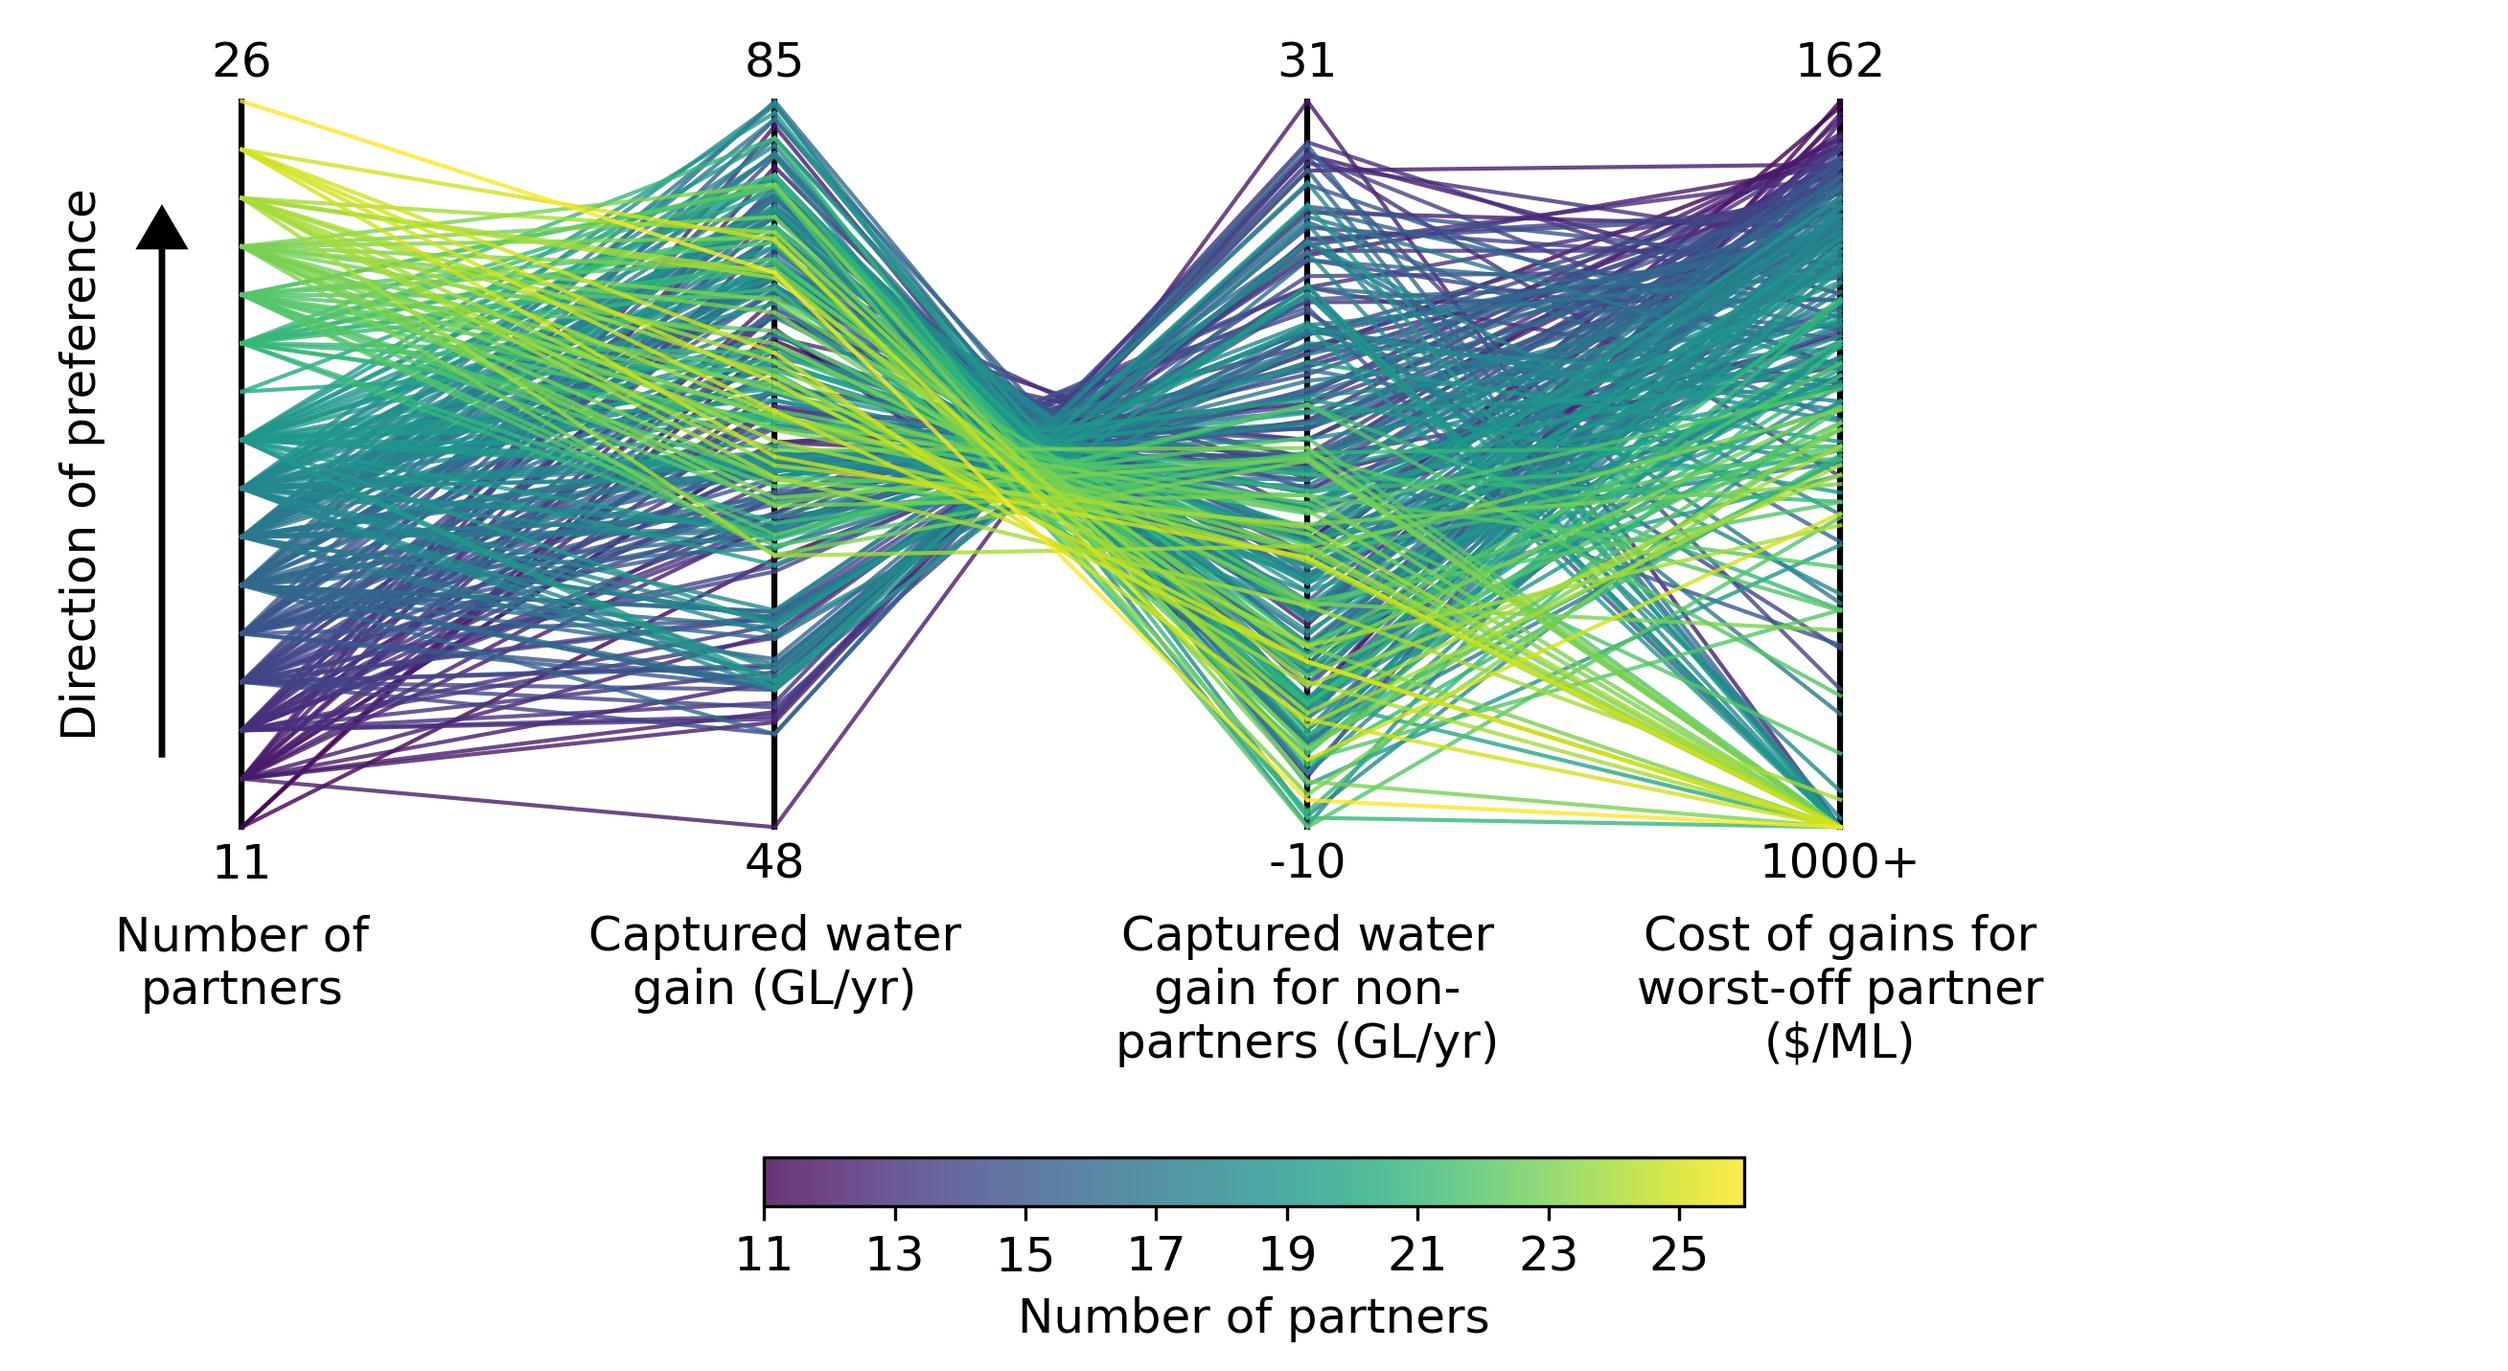
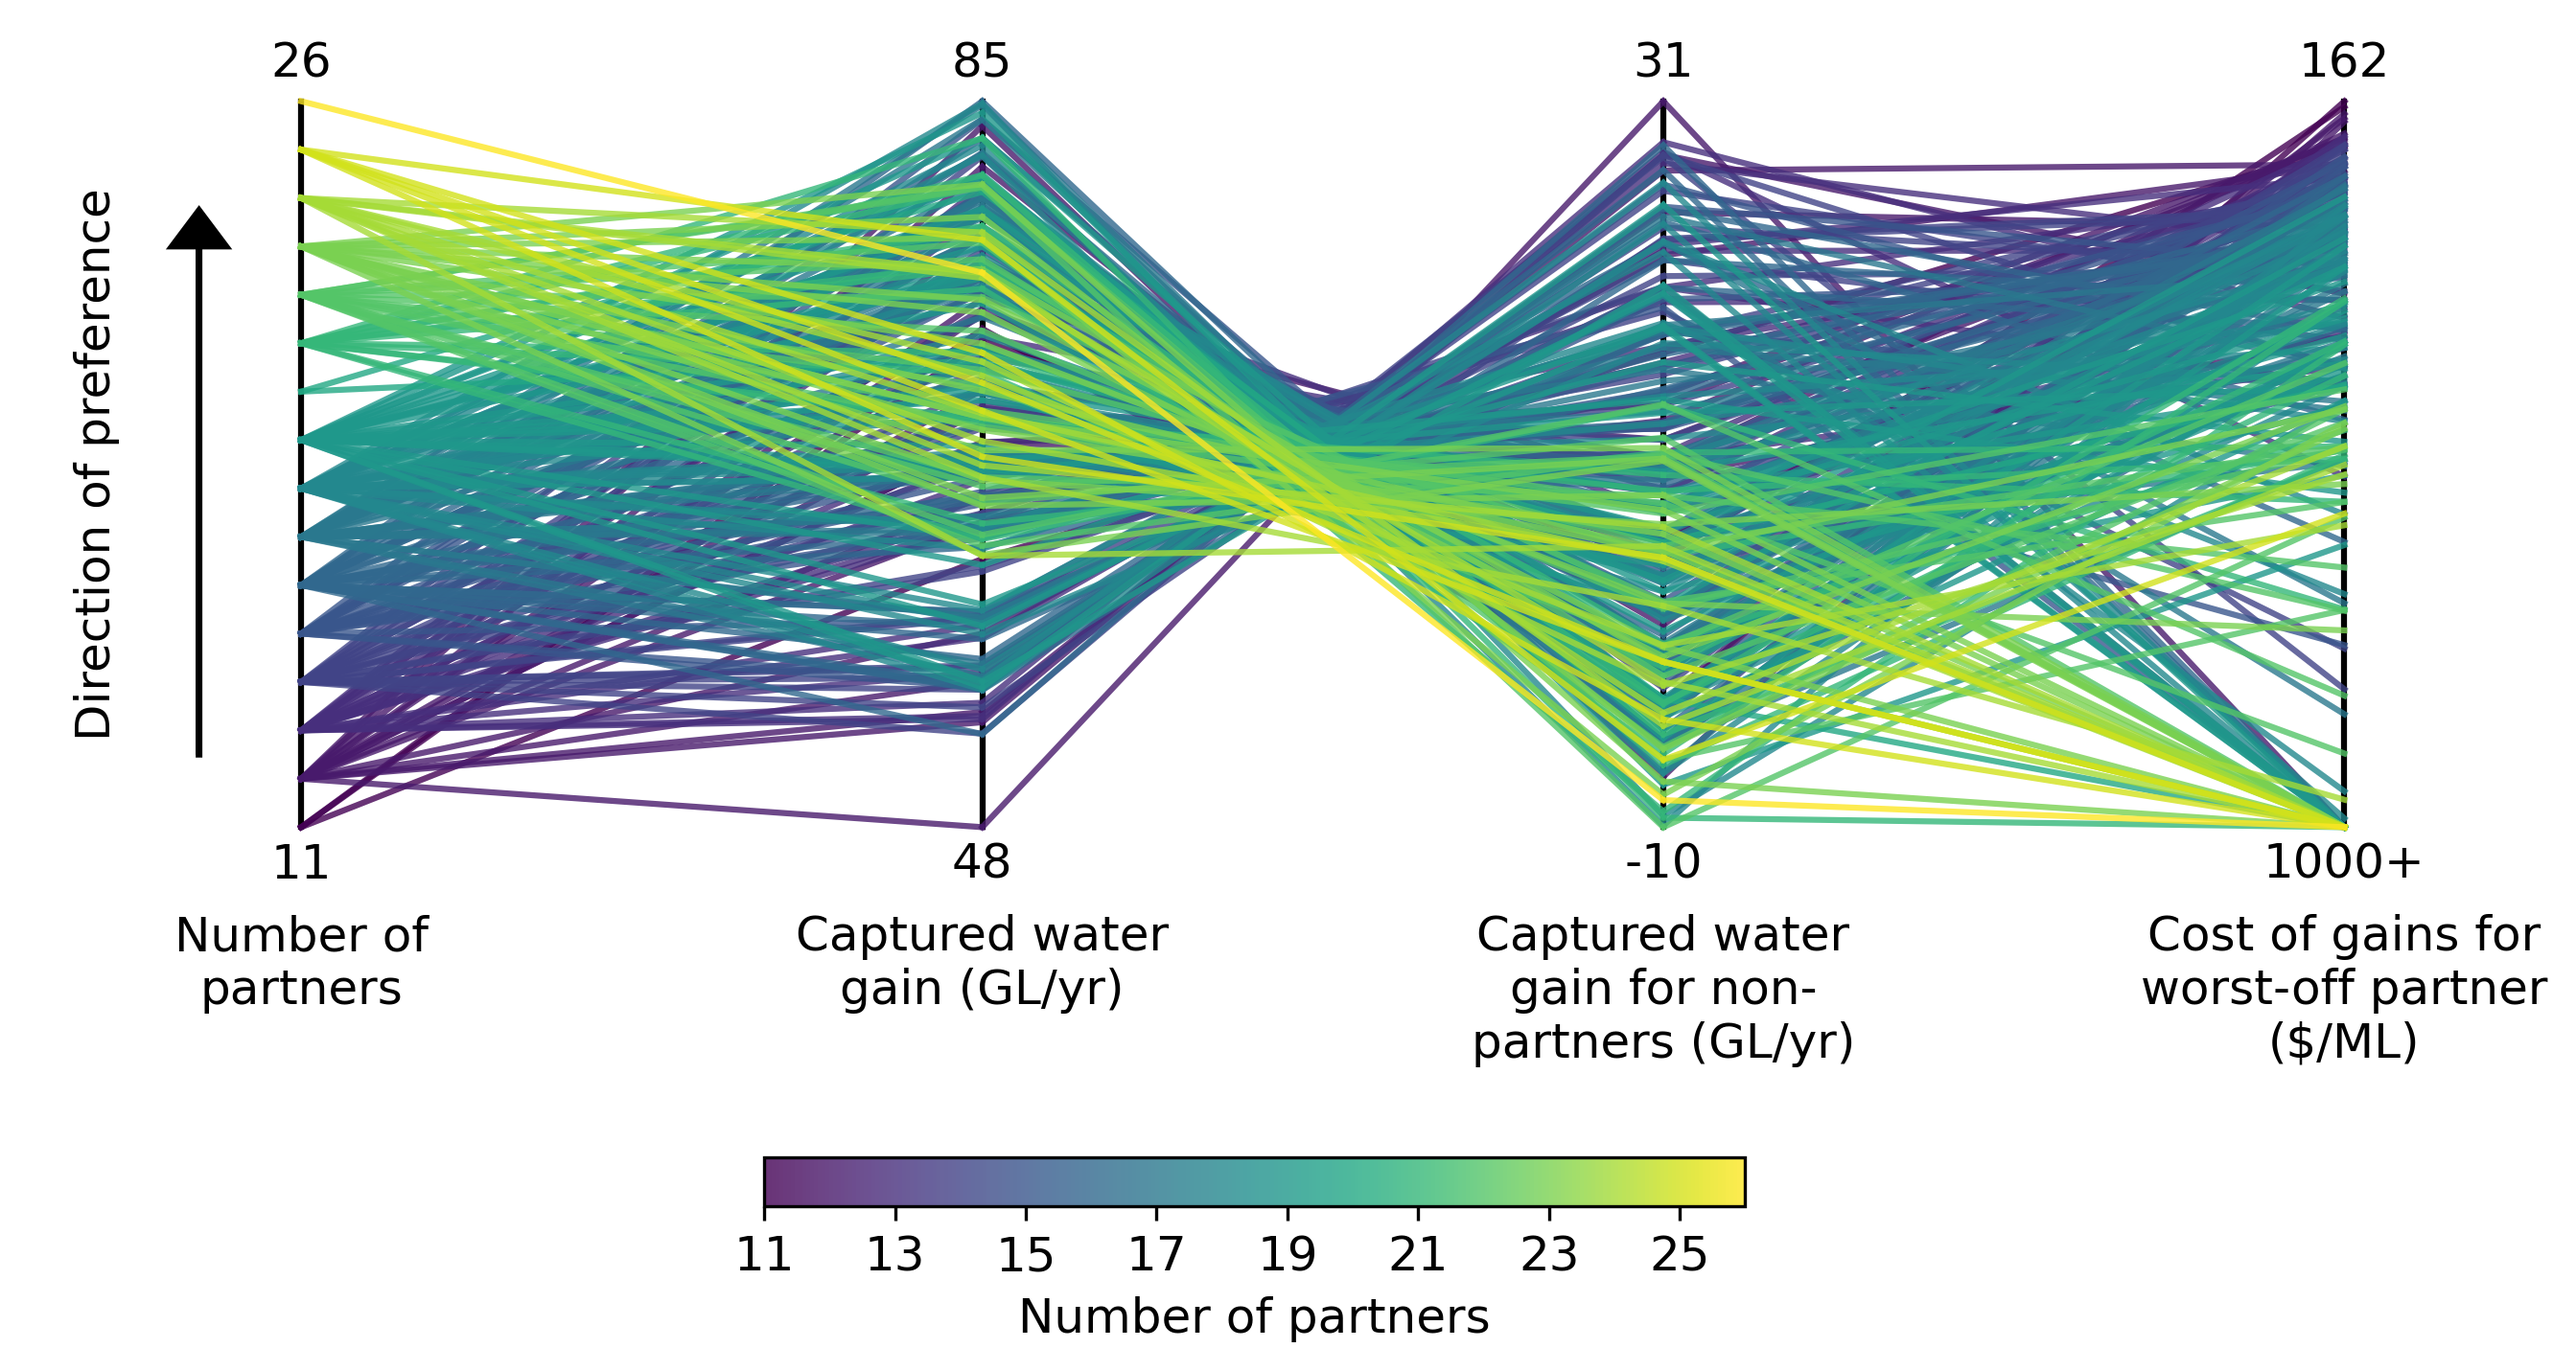
update figs

diff --git a/MORDM_experiment/paper1/make_figs.py b/MORDM_experiment/paper1/make_figs.py
@@ -32,7 +32,7 @@ color_by = 'n_p'  # 'n_p' or 'proj'
 
 ### parallel coordinates plot has various options based on brushing criteria & highlighted solutions (see function).
 ### here loop over fig_stage options used in paper. Do 13 last, which returns soln labels for status quo & compromise partnerships.
-fig_stages_paper = [13] #[6, 8, 9, 10, 11, 13]
+fig_stages_paper = [13]#[6, 8, 9, 10, 11, 13]
 for fig_stage in fig_stages_paper:
     soln_statusquo, soln_compromise = fig_functions.plot_parallel_coords(results, columns, column_labels,
                                                                          fig_stage, color_by)
@@ -46,14 +46,14 @@ water_providers, states, canals_fkc, canals_other, tlb, sjr, kings, res_gdf = fi
 # fig_functions.plot_regional_map(water_providers, states, canals_fkc, canals_other, tlb, sjr, kings, res_gdf)
 # print_completion(f'base regional map')
 
-# ## plot 3-part figure of performance for each partnership
-# fig_functions.plot_3part_partnership_performance(results, [soln_compromise], columns, water_providers, states,
-#                                                 canals_fkc, canals_other, tlb, sjr, kings, res_gdf)
-# print_completion(f'3-part partnership performance figure for compromise')
+## plot 3-part figure of performance for each partnership
+fig_functions.plot_3part_partnership_performance(results, [soln_compromise], columns, water_providers, states,
+                                                canals_fkc, canals_other, tlb, sjr, kings, res_gdf)
+print_completion(f'3-part partnership performance figure for compromise')
 
-# fig_functions.plot_3part_partnership_performance(results, [soln_compromise, soln_statusquo], columns, water_providers, states,
-#                                                 canals_fkc, canals_other, tlb, sjr, kings, res_gdf)
-# print_completion(f'3-part partnership performance figure for status quo')
+fig_functions.plot_3part_partnership_performance(results, [soln_compromise, soln_statusquo], columns, water_providers, states,
+                                                canals_fkc, canals_other, tlb, sjr, kings, res_gdf)
+print_completion(f'3-part partnership performance figure for status quo')
 
 # ## comparison of disaggregated performance under climate projections vs mhmm
 # fig_functions.compare_partnership_performance_climate(results, soln_compromise, columns)
@@ -80,13 +80,13 @@ water_providers, states, canals_fkc, canals_other, tlb, sjr, kings, res_gdf = fi
 # print_completion(f'3-part partner-level disagg  performance figure for status quo')
 
 
-## Note: The rest of figures only use the results from optimization - exclude statusquo solutions
-results = results.loc[['statusquo' not in s for s in results['label']],:]
+# ## Note: The rest of figures only use the results from optimization - exclude statusquo solutions
+# results = results.loc[['statusquo' not in s for s in results['label']],:]
 
-## plot 5-part figure of share distributions in optimal tradeoff partnership with bivariate choropleth map.
-fig_functions.plot_share_distributions_bivariateChoropleth(results, water_providers, states, canals_fkc, canals_other,
-                                                           tlb, sjr, kings, res_gdf)
-print_completion(f'5-part figure for ownership share distributions')
+# ## plot 5-part figure of share distributions in optimal tradeoff partnership with bivariate choropleth map.
+# fig_functions.plot_share_distributions_bivariateChoropleth(results, water_providers, states, canals_fkc, canals_other,
+#                                                            tlb, sjr, kings, res_gdf)
+# print_completion(f'5-part figure for ownership share distributions')
 
 ### NOTE: dont think we need this anymore - plot ownership share concentration across optimal tradeoff partnerships
 # fig_functions.plot_ownership_share_concentrations(results, water_providers)

diff --git a/MORDM_experiment/paper1/fig_functions.py b/MORDM_experiment/paper1/fig_functions.py
@@ -84,7 +84,7 @@ def plot_parallel_coords(results, columns, column_labels, fig_stage, color_by='n
 
     ### get satisficing if brushing
     if fig_stage == 8:
-        thres_np = 20
+        thres_np = 24
         satisfice = results_opt['n_p'] >= thres_np
     elif fig_stage == 9:
         thres_cog = 250
@@ -93,7 +93,7 @@ def plot_parallel_coords(results, columns, column_labels, fig_stage, color_by='n
         thres_cwg_np = 0
         satisfice = results_opt['cwg_np'] >= thres_cwg_np
     elif fig_stage == 11:
-        thres_cwg_p = 95
+        thres_cwg_p = 80
         satisfice = results_opt['cwg_p'] >= thres_cwg_p
     elif fig_stage == 13:
         thres_np = results_nonopt['n_p'].loc[results_nonopt['label'] == soln_statusquo].iloc[0]
@@ -176,9 +176,9 @@ def plot_parallel_coords(results, columns, column_labels, fig_stage, color_by='n
                 alpha = 0.05
             else:
                 alpha = 0.8
-            if i < ressat.shape[0] - 3:
+            if i < ressat.shape[0] - 1:
                 ### plot solns from MOO/WCU
-                ax.plot(x, y, c=c, alpha=alpha, zorder=zorder, lw=1)
+                ax.plot(x, y, c=c, alpha=alpha, zorder=zorder, lw=1.5)
             ### plot extra solns: statusquo
             if fig_stage < 6 or fig_stage == 13:
                 if i == ressat.shape[0] - 1:
@@ -190,7 +190,7 @@ def plot_parallel_coords(results, columns, column_labels, fig_stage, color_by='n
 
     ### highlight satisficing solns
     if fig_stage >= 8:
-        for i in range(ressat.shape[0] - 3):
+        for i in range(ressat.shape[0] - 1):
             if satisfice[i]:
                 for j in range(len(columns) - 1):
                     c, numnorm = get_color(color_by, results_opt, results_nonopt, i, cmap_vir)
@@ -295,7 +295,7 @@ def plot_parallel_coords(results, columns, column_labels, fig_stage, color_by='n
 
     ax.annotate('Direction of preference', xy=(-0.3, 0.5), ha='center', va='center', rotation=90, fontsize=fontsize)
 
-    ax.set_xlim(-0.4, 4.2)
+    ax.set_xlim(-0.4, 3.2)
     ax.set_ylim(-0.4, 1.1)
 
     for i, l in enumerate(column_labels):
@@ -1101,7 +1101,7 @@ def plot_3part_partnership_performance(results_agg, soln_labels, columns, water_
         ax.arrow(-0.15, 0.9, 0, -0.7, head_width=0.08, head_length=0.05, color='k', lw=1.5)
     ax.annotate('Direction of preference', xy=(-0.3, 0.5), ha='center', va='center', rotation=90, fontsize=fontsize)
 
-    plt.xlim([-0.3, 5])
+    plt.xlim([-0.3, 4.3])
 
     ax.annotate('b)', (0.4, 0.93), xycoords='subfigure fraction', ha='left', va='top', fontsize=fontsize + 2, weight='bold')
 
